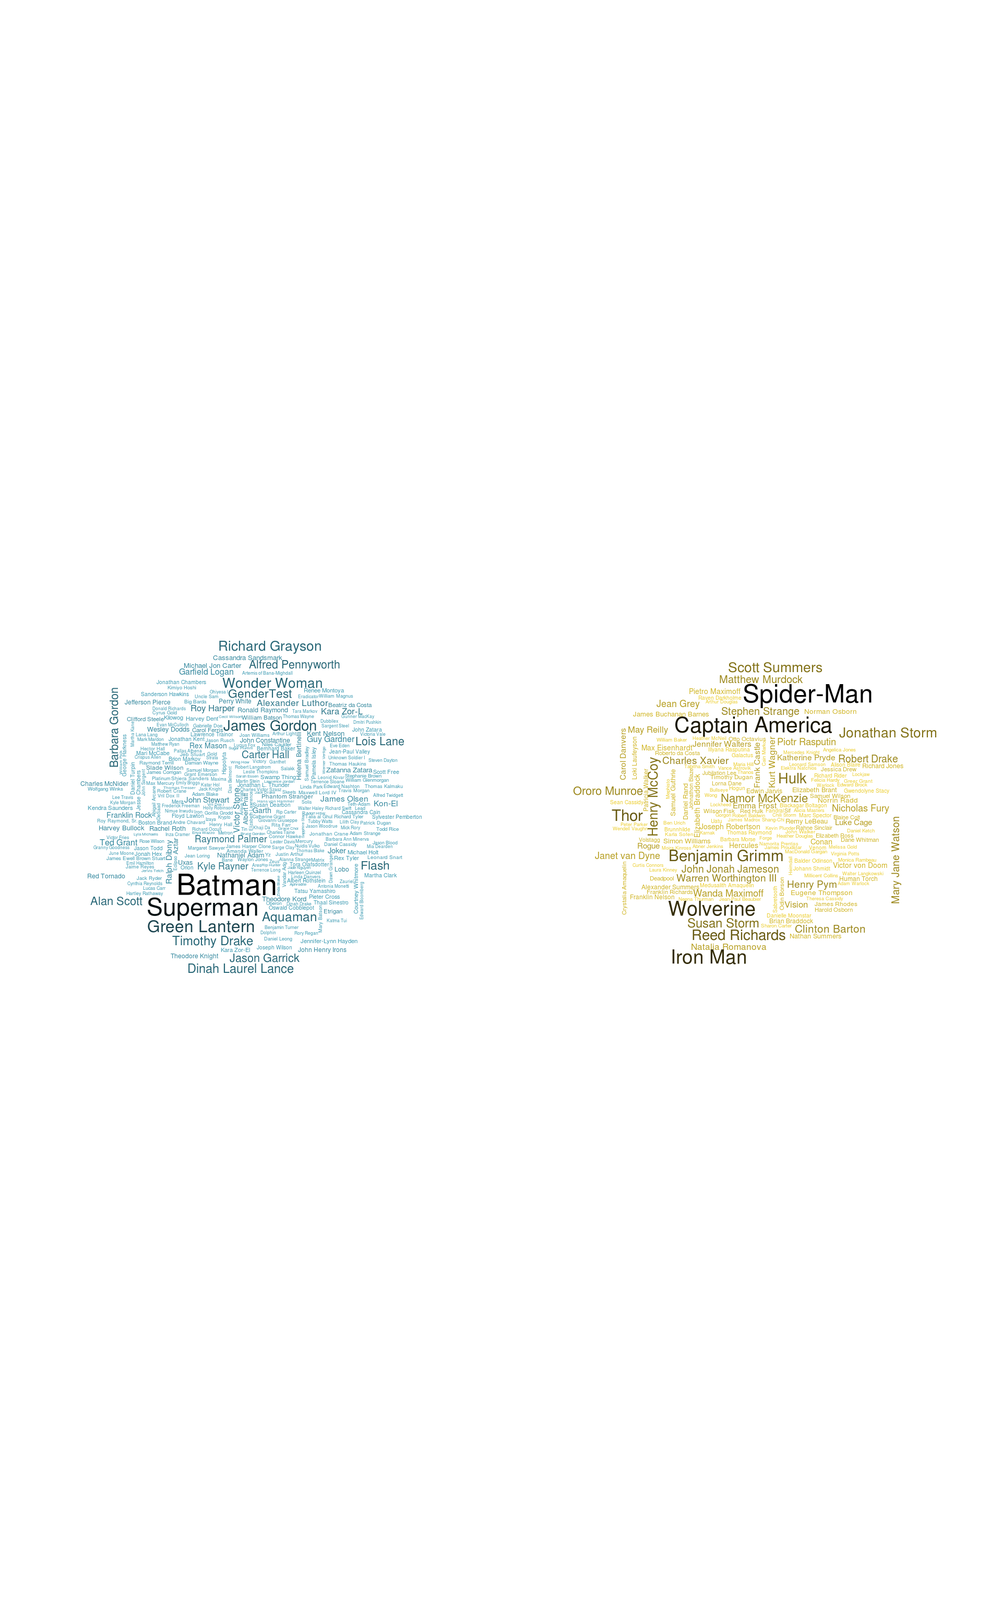
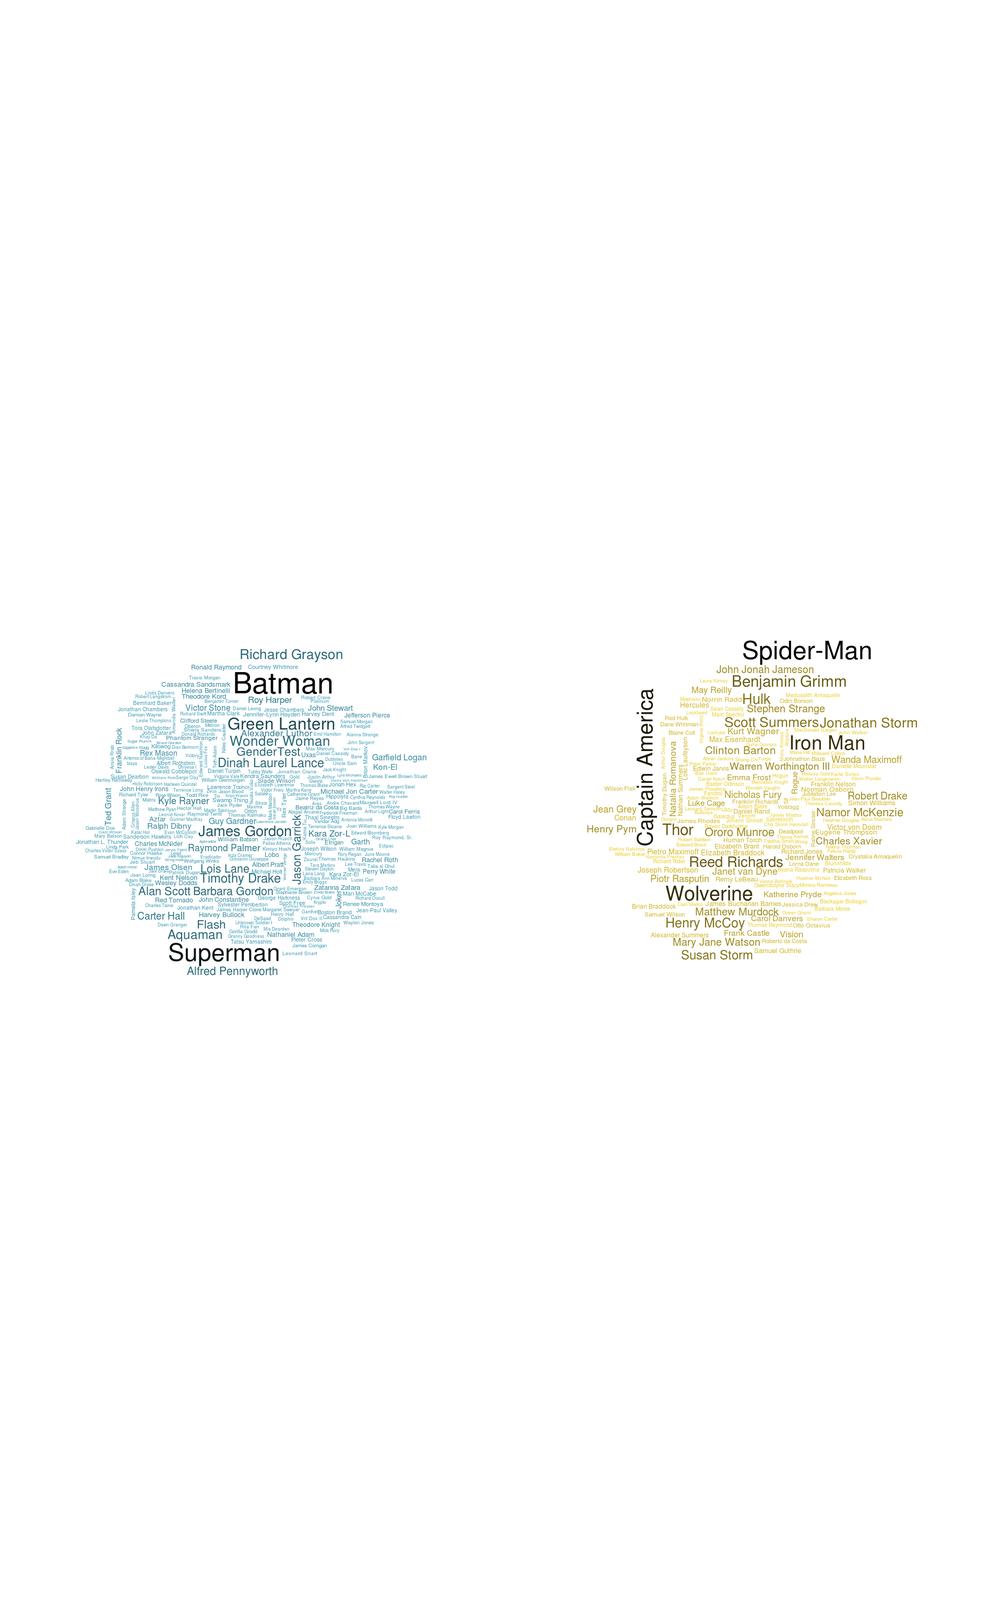
Deploy rudeboybert/fivethirtyeight to github.com/rudeboybert/fivethirtyeight.git:gh-pages

Changed region(s): [[0.0938, 0.3748, 0.4062, 0.6246], [0.5938, 0.3748, 0.9062, 0.5934]]

diff --git a/articles/biopics.html b/articles/biopics.html
@@ -206,8 +206,8 @@
 <span class="st">  </span><span class="kw"><a href="http://dplyr.tidyverse.org/reference/mutate.html">mutate</a></span>(<span class="dt">n=</span><span class="kw">round</span>(n,<span class="dv">2</span>)) %&gt;%
 <span class="st">  </span><span class="kw"><a href="http://www.rdocumentation.org/packages/highcharter/topics/hchart">hchart</a></span>(<span class="st">"treemap"</span>, <span class="kw"><a href="http://www.rdocumentation.org/packages/highcharter/topics/hcaes">hcaes</a></span>(<span class="dt">x =</span> type_of_subject, <span class="dt">value =</span> n, <span class="dt">color =</span> n)) %&gt;%
 <span class="st">  </span><span class="kw"><a href="http://www.rdocumentation.org/packages/highcharter/topics/hc_title">hc_title</a></span>(<span class="dt">text=</span><span class="st">"Type of Subjects of Movies involving White Actors(%)"</span>)</code></pre></div>
-<div id="htmlwidget-44826916be68c9d253e2" style="width:100%;height:500px;" class="highchart html-widget"></div>
-<script type="application/json" data-for="htmlwidget-44826916be68c9d253e2">{"x":{"hc_opts":{"title":{"text":"Type of Subjects of Movies involving White Actors(%)"},"yAxis":{"title":{"text":[]},"type":"linear"},"credits":{"enabled":false},"exporting":{"enabled":false},"plotOptions":{"series":{"turboThreshold":0,"showInLegend":false,"marker":{"enabled":true}},"treemap":{"layoutAlgorithm":"squarified"},"bubble":{"minSize":5,"maxSize":25},"scatter":{"marker":{"symbol":"circle"}}},"annotationsOptions":{"enabledButtons":false},"tooltip":{"delayForDisplay":10},"colorAxis":{"auxpar":null},"series":[{"group":"group","data":[{"person_of_color":"White","type_of_subject":"Academic","n":3.03,"value":3.03,"colorValue":3.03,"name":"Academic"},{"person_of_color":"White","type_of_subject":"Academic (Philosopher)","n":0.15,"value":0.15,"colorValue":0.15,"name":"Academic (Philosopher)"},{"person_of_color":"White","type_of_subject":"Activist","n":2.42,"value":2.42,"colorValue":2.42,"name":"Activist"},{"person_of_color":"White","type_of_subject":"Actor","n":1.66,"value":1.66,"colorValue":1.66,"name":"Actor"},{"person_of_color":"White","type_of_subject":"Actress","n":2.57,"value":2.57,"colorValue":2.57,"name":"Actress"},{"person_of_color":"White","type_of_subject":"Actress / activist","n":0.15,"value":0.15,"colorValue":0.15,"name":"Actress / activist"},{"person_of_color":"White","type_of_subject":"Artist","n":3.63,"value":3.63,"colorValue":3.63,"name":"Artist"},{"person_of_color":"White","type_of_subject":"Athlete","n":8.62,"value":8.62,"colorValue":8.62,"name":"Athlete"},{"person_of_color":"White","type_of_subject":"Athlete / military","n":0.15,"value":0.15,"colorValue":0.15,"name":"Athlete / military"},{"person_of_color":"White","type_of_subject":"Author","n":6.66,"value":6.66,"colorValue":6.66,"name":"Author"},{"person_of_color":"White","type_of_subject":"Author (poet)","n":1.97,"value":1.97,"colorValue":1.97,"name":"Author (poet)"},{"person_of_color":"White","type_of_subject":"Comedian","n":0.91,"value":0.91,"colorValue":0.91,"name":"Comedian"},{"person_of_color":"White","type_of_subject":"Criminal","n":11.5,"value":11.5,"colorValue":11.5,"name":"Criminal"},{"person_of_color":"White","type_of_subject":"Government","n":0.45,"value":0.45,"colorValue":0.45,"name":"Government"},{"person_of_color":"White","type_of_subject":"Historical","n":10.44,"value":10.44,"colorValue":10.44,"name":"Historical"},{"person_of_color":"White","type_of_subject":"Journalist","n":0.15,"value":0.15,"colorValue":0.15,"name":"Journalist"},{"person_of_color":"White","type_of_subject":"Media","n":2.12,"value":2.12,"colorValue":2.12,"name":"Media"},{"person_of_color":"White","type_of_subject":"Medicine","n":1.36,"value":1.36,"colorValue":1.36,"name":"Medicine"},{"person_of_color":"White","type_of_subject":"Military","n":6.05,"value":6.05,"colorValue":6.05,"name":"Military"},{"person_of_color":"White","type_of_subject":"Military / activist","n":0.15,"value":0.15,"colorValue":0.15,"name":"Military / activist"},{"person_of_color":"White","type_of_subject":"Musician","n":9.98,"value":9.98,"colorValue":9.98,"name":"Musician"},{"person_of_color":"White","type_of_subject":"Other","n":21.48,"value":21.48,"colorValue":21.48,"name":"Other"},{"person_of_color":"White","type_of_subject":"Politician","n":0.15,"value":0.15,"colorValue":0.15,"name":"Politician"},{"person_of_color":"White","type_of_subject":"Singer","n":2.12,"value":2.12,"colorValue":2.12,"name":"Singer"},{"person_of_color":"White","type_of_subject":"Teacher","n":0.15,"value":0.15,"colorValue":0.15,"name":"Teacher"},{"person_of_color":"White","type_of_subject":"World leader","n":1.97,"value":1.97,"colorValue":1.97,"name":"World leader"}],"type":"treemap"}],"xAxis":{"type":"category","title":{"text":"type_of_subject"},"categories":null}},"theme":{"chart":{"backgroundColor":"transparent"}},"conf_opts":{"global":{"Date":null,"VMLRadialGradientURL":"http =//code.highcharts.com/list(version)/gfx/vml-radial-gradient.png","canvasToolsURL":"http =//code.highcharts.com/list(version)/modules/canvas-tools.js","getTimezoneOffset":null,"timezoneOffset":0,"useUTC":true},"lang":{"contextButtonTitle":"Chart context menu","decimalPoint":".","downloadJPEG":"Download JPEG image","downloadPDF":"Download PDF document","downloadPNG":"Download PNG image","downloadSVG":"Download SVG vector image","drillUpText":"Back to {series.name}","invalidDate":null,"loading":"Loading...","months":["January","February","March","April","May","June","July","August","September","October","November","December"],"noData":"No data to display","numericSymbols":["k","M","G","T","P","E"],"printChart":"Print chart","resetZoom":"Reset zoom","resetZoomTitle":"Reset zoom level 1:1","shortMonths":["Jan","Feb","Mar","Apr","May","Jun","Jul","Aug","Sep","Oct","Nov","Dec"],"thousandsSep":" ","weekdays":["Sunday","Monday","Tuesday","Wednesday","Thursday","Friday","Saturday"]}},"type":"chart","fonts":[],"debug":false},"evals":[],"jsHooks":[]}</script><p><em>Actors of Color</em></p>
+<div id="htmlwidget-9324b0356b308ed6e9a5" style="width:100%;height:500px;" class="highchart html-widget"></div>
+<script type="application/json" data-for="htmlwidget-9324b0356b308ed6e9a5">{"x":{"hc_opts":{"title":{"text":"Type of Subjects of Movies involving White Actors(%)"},"yAxis":{"title":{"text":[]},"type":"linear"},"credits":{"enabled":false},"exporting":{"enabled":false},"plotOptions":{"series":{"turboThreshold":0,"showInLegend":false,"marker":{"enabled":true}},"treemap":{"layoutAlgorithm":"squarified"},"bubble":{"minSize":5,"maxSize":25},"scatter":{"marker":{"symbol":"circle"}}},"annotationsOptions":{"enabledButtons":false},"tooltip":{"delayForDisplay":10},"colorAxis":{"auxpar":null},"series":[{"group":"group","data":[{"person_of_color":"White","type_of_subject":"Academic","n":3.03,"value":3.03,"colorValue":3.03,"name":"Academic"},{"person_of_color":"White","type_of_subject":"Academic (Philosopher)","n":0.15,"value":0.15,"colorValue":0.15,"name":"Academic (Philosopher)"},{"person_of_color":"White","type_of_subject":"Activist","n":2.42,"value":2.42,"colorValue":2.42,"name":"Activist"},{"person_of_color":"White","type_of_subject":"Actor","n":1.66,"value":1.66,"colorValue":1.66,"name":"Actor"},{"person_of_color":"White","type_of_subject":"Actress","n":2.57,"value":2.57,"colorValue":2.57,"name":"Actress"},{"person_of_color":"White","type_of_subject":"Actress / activist","n":0.15,"value":0.15,"colorValue":0.15,"name":"Actress / activist"},{"person_of_color":"White","type_of_subject":"Artist","n":3.63,"value":3.63,"colorValue":3.63,"name":"Artist"},{"person_of_color":"White","type_of_subject":"Athlete","n":8.62,"value":8.62,"colorValue":8.62,"name":"Athlete"},{"person_of_color":"White","type_of_subject":"Athlete / military","n":0.15,"value":0.15,"colorValue":0.15,"name":"Athlete / military"},{"person_of_color":"White","type_of_subject":"Author","n":6.66,"value":6.66,"colorValue":6.66,"name":"Author"},{"person_of_color":"White","type_of_subject":"Author (poet)","n":1.97,"value":1.97,"colorValue":1.97,"name":"Author (poet)"},{"person_of_color":"White","type_of_subject":"Comedian","n":0.91,"value":0.91,"colorValue":0.91,"name":"Comedian"},{"person_of_color":"White","type_of_subject":"Criminal","n":11.5,"value":11.5,"colorValue":11.5,"name":"Criminal"},{"person_of_color":"White","type_of_subject":"Government","n":0.45,"value":0.45,"colorValue":0.45,"name":"Government"},{"person_of_color":"White","type_of_subject":"Historical","n":10.44,"value":10.44,"colorValue":10.44,"name":"Historical"},{"person_of_color":"White","type_of_subject":"Journalist","n":0.15,"value":0.15,"colorValue":0.15,"name":"Journalist"},{"person_of_color":"White","type_of_subject":"Media","n":2.12,"value":2.12,"colorValue":2.12,"name":"Media"},{"person_of_color":"White","type_of_subject":"Medicine","n":1.36,"value":1.36,"colorValue":1.36,"name":"Medicine"},{"person_of_color":"White","type_of_subject":"Military","n":6.05,"value":6.05,"colorValue":6.05,"name":"Military"},{"person_of_color":"White","type_of_subject":"Military / activist","n":0.15,"value":0.15,"colorValue":0.15,"name":"Military / activist"},{"person_of_color":"White","type_of_subject":"Musician","n":9.98,"value":9.98,"colorValue":9.98,"name":"Musician"},{"person_of_color":"White","type_of_subject":"Other","n":21.48,"value":21.48,"colorValue":21.48,"name":"Other"},{"person_of_color":"White","type_of_subject":"Politician","n":0.15,"value":0.15,"colorValue":0.15,"name":"Politician"},{"person_of_color":"White","type_of_subject":"Singer","n":2.12,"value":2.12,"colorValue":2.12,"name":"Singer"},{"person_of_color":"White","type_of_subject":"Teacher","n":0.15,"value":0.15,"colorValue":0.15,"name":"Teacher"},{"person_of_color":"White","type_of_subject":"World leader","n":1.97,"value":1.97,"colorValue":1.97,"name":"World leader"}],"type":"treemap"}],"xAxis":{"type":"category","title":{"text":"type_of_subject"},"categories":null}},"theme":{"chart":{"backgroundColor":"transparent"}},"conf_opts":{"global":{"Date":null,"VMLRadialGradientURL":"http =//code.highcharts.com/list(version)/gfx/vml-radial-gradient.png","canvasToolsURL":"http =//code.highcharts.com/list(version)/modules/canvas-tools.js","getTimezoneOffset":null,"timezoneOffset":0,"useUTC":true},"lang":{"contextButtonTitle":"Chart context menu","decimalPoint":".","downloadJPEG":"Download JPEG image","downloadPDF":"Download PDF document","downloadPNG":"Download PNG image","downloadSVG":"Download SVG vector image","drillUpText":"Back to {series.name}","invalidDate":null,"loading":"Loading...","months":["January","February","March","April","May","June","July","August","September","October","November","December"],"noData":"No data to display","numericSymbols":["k","M","G","T","P","E"],"printChart":"Print chart","resetZoom":"Reset zoom","resetZoomTitle":"Reset zoom level 1:1","shortMonths":["Jan","Feb","Mar","Apr","May","Jun","Jul","Aug","Sep","Oct","Nov","Dec"],"thousandsSep":" ","weekdays":["Sunday","Monday","Tuesday","Wednesday","Thursday","Friday","Saturday"]}},"type":"chart","fonts":[],"debug":false},"evals":[],"jsHooks":[]}</script><p><em>Actors of Color</em></p>
 <div class="sourceCode"><pre class="sourceCode r"><code class="sourceCode r">biopics %&gt;%<span class="st"> </span>
 <span class="st">  </span><span class="kw"><a href="http://dplyr.tidyverse.org/reference/mutate.html">mutate</a></span>(<span class="dt">person_of_color=</span><span class="kw">ifelse</span>(person_of_color==<span class="dv">0</span>,<span class="st">"White"</span>,<span class="st">"Person of Color"</span>)) %&gt;%
 <span class="st">  </span><span class="kw"><a href="http://dplyr.tidyverse.org/reference/group_by.html">group_by</a></span>(person_of_color,type_of_subject) %&gt;%<span class="st"> </span>
@@ -217,8 +217,8 @@
 <span class="st">  </span><span class="kw"><a href="http://dplyr.tidyverse.org/reference/mutate.html">mutate</a></span>(<span class="dt">n=</span><span class="kw">round</span>(n,<span class="dv">2</span>)) %&gt;%
 <span class="st">  </span><span class="kw"><a href="http://www.rdocumentation.org/packages/highcharter/topics/hchart">hchart</a></span>(<span class="st">"treemap"</span>, <span class="kw"><a href="http://www.rdocumentation.org/packages/highcharter/topics/hcaes">hcaes</a></span>(<span class="dt">x =</span> type_of_subject, <span class="dt">value =</span> n, <span class="dt">color =</span> n)) %&gt;%
 <span class="st">  </span><span class="kw"><a href="http://www.rdocumentation.org/packages/highcharter/topics/hc_title">hc_title</a></span>(<span class="dt">text=</span><span class="st">"Type of Subjects of Movies involving  Actors of Color(%)"</span>)</code></pre></div>
-<div id="htmlwidget-910183135a06595d2138" style="width:100%;height:500px;" class="highchart html-widget"></div>
-<script type="application/json" data-for="htmlwidget-910183135a06595d2138">{"x":{"hc_opts":{"title":{"text":"Type of Subjects of Movies involving  Actors of Color(%)"},"yAxis":{"title":{"text":[]},"type":"linear"},"credits":{"enabled":false},"exporting":{"enabled":false},"plotOptions":{"series":{"turboThreshold":0,"showInLegend":false,"marker":{"enabled":true}},"treemap":{"layoutAlgorithm":"squarified"},"bubble":{"minSize":5,"maxSize":25},"scatter":{"marker":{"symbol":"circle"}}},"annotationsOptions":{"enabledButtons":false},"tooltip":{"delayForDisplay":10},"colorAxis":{"auxpar":null},"series":[{"group":"group","data":[{"person_of_color":"Person of Color","type_of_subject":"Academic","n":1,"value":1,"colorValue":1,"name":"Academic"},{"person_of_color":"Person of Color","type_of_subject":"Activist","n":15,"value":15,"colorValue":15,"name":"Activist"},{"person_of_color":"Person of Color","type_of_subject":"Actor","n":3,"value":3,"colorValue":3,"name":"Actor"},{"person_of_color":"Person of Color","type_of_subject":"Artist","n":5,"value":5,"colorValue":5,"name":"Artist"},{"person_of_color":"Person of Color","type_of_subject":"Athlete","n":17,"value":17,"colorValue":17,"name":"Athlete"},{"person_of_color":"Person of Color","type_of_subject":"Author","n":1,"value":1,"colorValue":1,"name":"Author"},{"person_of_color":"Person of Color","type_of_subject":"Comedian","n":1,"value":1,"colorValue":1,"name":"Comedian"},{"person_of_color":"Person of Color","type_of_subject":"Criminal","n":5,"value":5,"colorValue":5,"name":"Criminal"},{"person_of_color":"Person of Color","type_of_subject":"Government","n":1,"value":1,"colorValue":1,"name":"Government"},{"person_of_color":"Person of Color","type_of_subject":"Historical","n":7,"value":7,"colorValue":7,"name":"Historical"},{"person_of_color":"Person of Color","type_of_subject":"Journalist","n":1,"value":1,"colorValue":1,"name":"Journalist"},{"person_of_color":"Person of Color","type_of_subject":"Media","n":1,"value":1,"colorValue":1,"name":"Media"},{"person_of_color":"Person of Color","type_of_subject":"Military","n":5,"value":5,"colorValue":5,"name":"Military"},{"person_of_color":"Person of Color","type_of_subject":"Musician","n":10,"value":10,"colorValue":10,"name":"Musician"},{"person_of_color":"Person of Color","type_of_subject":"Other","n":17,"value":17,"colorValue":17,"name":"Other"},{"person_of_color":"Person of Color","type_of_subject":"Singer","n":6,"value":6,"colorValue":6,"name":"Singer"},{"person_of_color":"Person of Color","type_of_subject":"World leader","n":4,"value":4,"colorValue":4,"name":"World leader"}],"type":"treemap"}],"xAxis":{"type":"category","title":{"text":"type_of_subject"},"categories":null}},"theme":{"chart":{"backgroundColor":"transparent"}},"conf_opts":{"global":{"Date":null,"VMLRadialGradientURL":"http =//code.highcharts.com/list(version)/gfx/vml-radial-gradient.png","canvasToolsURL":"http =//code.highcharts.com/list(version)/modules/canvas-tools.js","getTimezoneOffset":null,"timezoneOffset":0,"useUTC":true},"lang":{"contextButtonTitle":"Chart context menu","decimalPoint":".","downloadJPEG":"Download JPEG image","downloadPDF":"Download PDF document","downloadPNG":"Download PNG image","downloadSVG":"Download SVG vector image","drillUpText":"Back to {series.name}","invalidDate":null,"loading":"Loading...","months":["January","February","March","April","May","June","July","August","September","October","November","December"],"noData":"No data to display","numericSymbols":["k","M","G","T","P","E"],"printChart":"Print chart","resetZoom":"Reset zoom","resetZoomTitle":"Reset zoom level 1:1","shortMonths":["Jan","Feb","Mar","Apr","May","Jun","Jul","Aug","Sep","Oct","Nov","Dec"],"thousandsSep":" ","weekdays":["Sunday","Monday","Tuesday","Wednesday","Thursday","Friday","Saturday"]}},"type":"chart","fonts":[],"debug":false},"evals":[],"jsHooks":[]}</script><p><em>A side by side comparison</em></p>
+<div id="htmlwidget-f0e440e8126fa14a201b" style="width:100%;height:500px;" class="highchart html-widget"></div>
+<script type="application/json" data-for="htmlwidget-f0e440e8126fa14a201b">{"x":{"hc_opts":{"title":{"text":"Type of Subjects of Movies involving  Actors of Color(%)"},"yAxis":{"title":{"text":[]},"type":"linear"},"credits":{"enabled":false},"exporting":{"enabled":false},"plotOptions":{"series":{"turboThreshold":0,"showInLegend":false,"marker":{"enabled":true}},"treemap":{"layoutAlgorithm":"squarified"},"bubble":{"minSize":5,"maxSize":25},"scatter":{"marker":{"symbol":"circle"}}},"annotationsOptions":{"enabledButtons":false},"tooltip":{"delayForDisplay":10},"colorAxis":{"auxpar":null},"series":[{"group":"group","data":[{"person_of_color":"Person of Color","type_of_subject":"Academic","n":1,"value":1,"colorValue":1,"name":"Academic"},{"person_of_color":"Person of Color","type_of_subject":"Activist","n":15,"value":15,"colorValue":15,"name":"Activist"},{"person_of_color":"Person of Color","type_of_subject":"Actor","n":3,"value":3,"colorValue":3,"name":"Actor"},{"person_of_color":"Person of Color","type_of_subject":"Artist","n":5,"value":5,"colorValue":5,"name":"Artist"},{"person_of_color":"Person of Color","type_of_subject":"Athlete","n":17,"value":17,"colorValue":17,"name":"Athlete"},{"person_of_color":"Person of Color","type_of_subject":"Author","n":1,"value":1,"colorValue":1,"name":"Author"},{"person_of_color":"Person of Color","type_of_subject":"Comedian","n":1,"value":1,"colorValue":1,"name":"Comedian"},{"person_of_color":"Person of Color","type_of_subject":"Criminal","n":5,"value":5,"colorValue":5,"name":"Criminal"},{"person_of_color":"Person of Color","type_of_subject":"Government","n":1,"value":1,"colorValue":1,"name":"Government"},{"person_of_color":"Person of Color","type_of_subject":"Historical","n":7,"value":7,"colorValue":7,"name":"Historical"},{"person_of_color":"Person of Color","type_of_subject":"Journalist","n":1,"value":1,"colorValue":1,"name":"Journalist"},{"person_of_color":"Person of Color","type_of_subject":"Media","n":1,"value":1,"colorValue":1,"name":"Media"},{"person_of_color":"Person of Color","type_of_subject":"Military","n":5,"value":5,"colorValue":5,"name":"Military"},{"person_of_color":"Person of Color","type_of_subject":"Musician","n":10,"value":10,"colorValue":10,"name":"Musician"},{"person_of_color":"Person of Color","type_of_subject":"Other","n":17,"value":17,"colorValue":17,"name":"Other"},{"person_of_color":"Person of Color","type_of_subject":"Singer","n":6,"value":6,"colorValue":6,"name":"Singer"},{"person_of_color":"Person of Color","type_of_subject":"World leader","n":4,"value":4,"colorValue":4,"name":"World leader"}],"type":"treemap"}],"xAxis":{"type":"category","title":{"text":"type_of_subject"},"categories":null}},"theme":{"chart":{"backgroundColor":"transparent"}},"conf_opts":{"global":{"Date":null,"VMLRadialGradientURL":"http =//code.highcharts.com/list(version)/gfx/vml-radial-gradient.png","canvasToolsURL":"http =//code.highcharts.com/list(version)/modules/canvas-tools.js","getTimezoneOffset":null,"timezoneOffset":0,"useUTC":true},"lang":{"contextButtonTitle":"Chart context menu","decimalPoint":".","downloadJPEG":"Download JPEG image","downloadPDF":"Download PDF document","downloadPNG":"Download PNG image","downloadSVG":"Download SVG vector image","drillUpText":"Back to {series.name}","invalidDate":null,"loading":"Loading...","months":["January","February","March","April","May","June","July","August","September","October","November","December"],"noData":"No data to display","numericSymbols":["k","M","G","T","P","E"],"printChart":"Print chart","resetZoom":"Reset zoom","resetZoomTitle":"Reset zoom level 1:1","shortMonths":["Jan","Feb","Mar","Apr","May","Jun","Jul","Aug","Sep","Oct","Nov","Dec"],"thousandsSep":" ","weekdays":["Sunday","Monday","Tuesday","Wednesday","Thursday","Friday","Saturday"]}},"type":"chart","fonts":[],"debug":false},"evals":[],"jsHooks":[]}</script><p><em>A side by side comparison</em></p>
 <div class="sourceCode"><pre class="sourceCode r"><code class="sourceCode r">biopics %&gt;%<span class="st"> </span>
 <span class="st">  </span><span class="kw"><a href="http://dplyr.tidyverse.org/reference/mutate.html">mutate</a></span>(<span class="dt">person_of_color =</span> <span class="kw">ifelse</span>(person_of_color==<span class="dv">0</span>,<span class="st">"White"</span>,<span class="st">"Person of Color"</span>)) %&gt;%
 <span class="st">  </span><span class="kw"><a href="http://dplyr.tidyverse.org/reference/group_by.html">group_by</a></span>(person_of_color,type_of_subject) %&gt;%<span class="st"> </span>
@@ -340,7 +340,7 @@ percent_overall &lt;-<span class="st"> </span><span class="kw"><a href="http://d
 <span class="st">  </span><span class="kw"><a href="http://www.rdocumentation.org/packages/ggplot2/topics/labs">labs</a></span>(<span class="dt">y =</span> <span class="st">"Biopics Involving Men"</span>, <span class="dt">x =</span><span class="st">"Biopics Involving Women"</span>,<span class="dt">text=</span><span class="kw"><a href="http://www.rdocumentation.org/packages/ggplot2/topics/element">element_text</a></span>(<span class="dt">size=</span><span class="dv">10</span>),
        <span class="dt">plot.title=</span><span class="kw"><a href="http://www.rdocumentation.org/packages/ggplot2/topics/element">element_text</a></span>(<span class="dt">hjust=</span><span class="fl">0.5</span>))+
 <span class="st">  </span><span class="kw"><a href="http://www.rdocumentation.org/packages/ggplot2/topics/labs">ggtitle</a></span>(<span class="st">"Relative Frequency of Subjects(Gender Wise)"</span>)</code></pre></div>
-<pre><code>## Warning: Removed 18 rows containing missing values (geom_point).</code></pre>
+<pre><code>## Warning: Removed 15 rows containing missing values (geom_point).</code></pre>
 <p><img src="biopics_files/figure-html/unnamed-chunk-11-1.png" width="672"></p>
 <p>Topics that are close to the line indicate topics that have similar frequencies in both the sets of data. These topics include <em>government</em>,<em>academic</em> and <em>activist</em>. Topics that are far from this line are topics that are found frequently in one set but not the other.For example,a larger percentage of biopics that involved women,portrayed authors. By looking at the other side, topics like <em>military</em> had a higher percentage of coverage in biopics involving men than women.More the red color of the text, the more frequently the topic appears in biopics related to men.</p>
 </div>

diff --git a/articles/tame.html b/articles/tame.html
@@ -221,7 +221,7 @@ Grolemund and Wickham’s ‘Data/Science Pipeline’
 <span class="co">#&gt;  0.4190  0.4400  0.4540  0.4538  0.4665  0.5320</span>
 <span class="kw">summary</span>(hate_crimes$hate_crimes_per_100k_splc)
 <span class="co">#&gt;    Min. 1st Qu.  Median    Mean 3rd Qu.    Max.    NA's </span>
-<span class="co">#&gt; 0.06745 0.14271 0.22620 0.30409 0.35694 1.52230       4</span></code></pre></div>
+<span class="co">#&gt; 0.06745 0.14270 0.22620 0.30410 0.35690 1.52200       4</span></code></pre></div>
 <p>then have students produce a scatterplot visualizing the relationship between these two variables (see Figure ):</p>
 <div class="sourceCode"><pre class="sourceCode r"><code class="sourceCode r"><span class="kw">plot</span>(hate_crimes$gini_index, hate_crimes$hate_crimes_per_100k_splc, 
      <span class="dt">xlab =</span> <span class="st">"Gini index"</span>, <span class="dt">ylab =</span> <span class="st">"Hate crime rate per 100K"</span>, 
